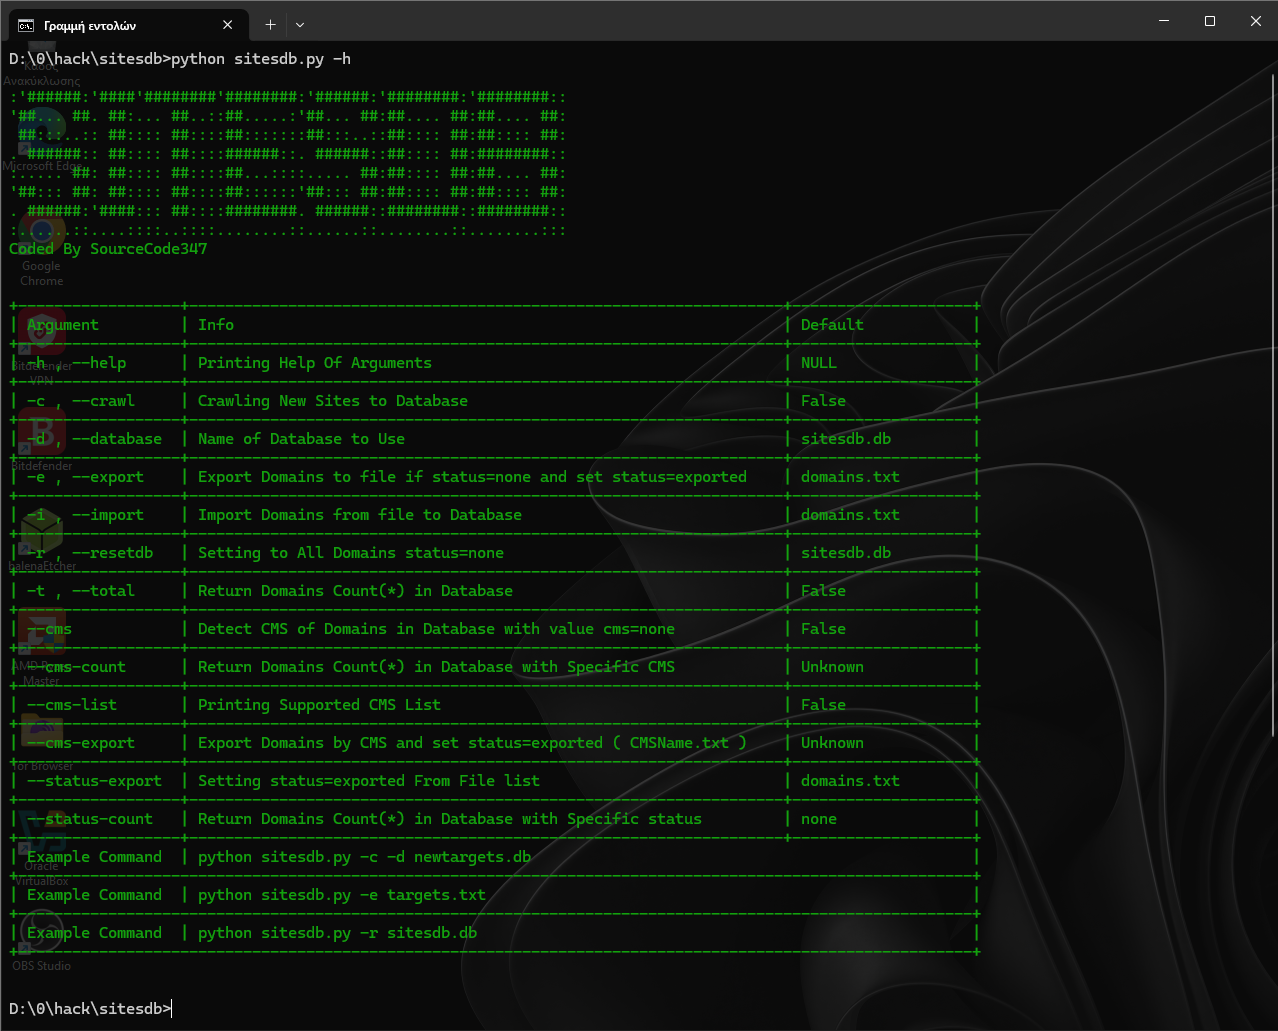
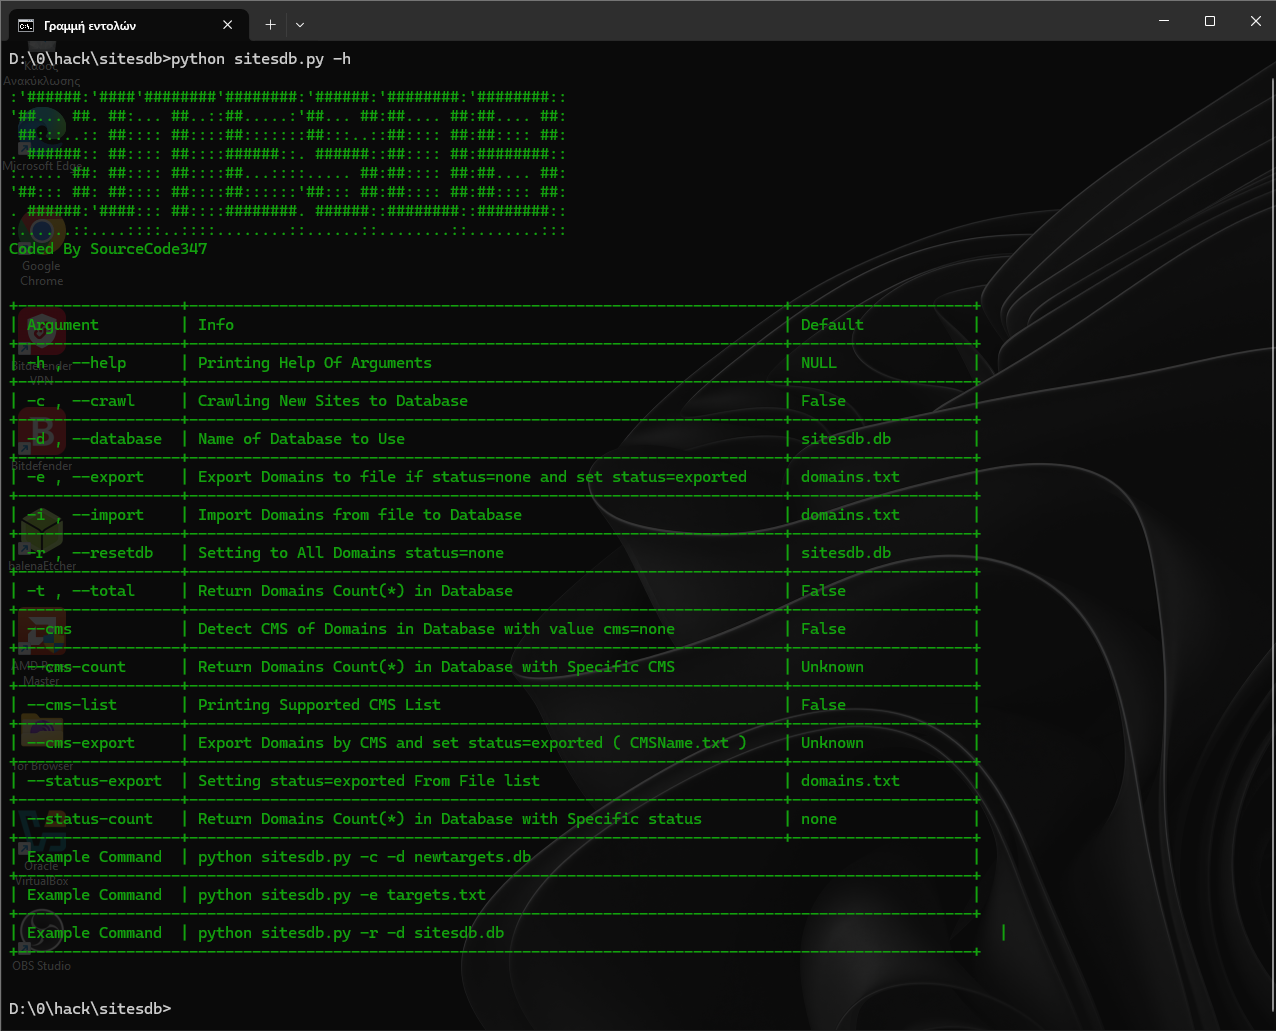
Add files via upload

diff --git a/sitesdb.py b/sitesdb.py
@@ -98,7 +98,7 @@ help = '''
 +----------------------------------------------------------------------------------------------------------+
 | Example Command  | python sitesdb.py -e targets.txt                                                      |
 +----------------------------------------------------------------------------------------------------------+
-| Example Command  | python sitesdb.py -r sitesdb.db                                                       |
+| Example Command  | python sitesdb.py -r -d sitesdb.db                                                       |
 +----------------------------------------------------------------------------------------------------------+
 '''
 for arg in range(0,len(sys.argv)):